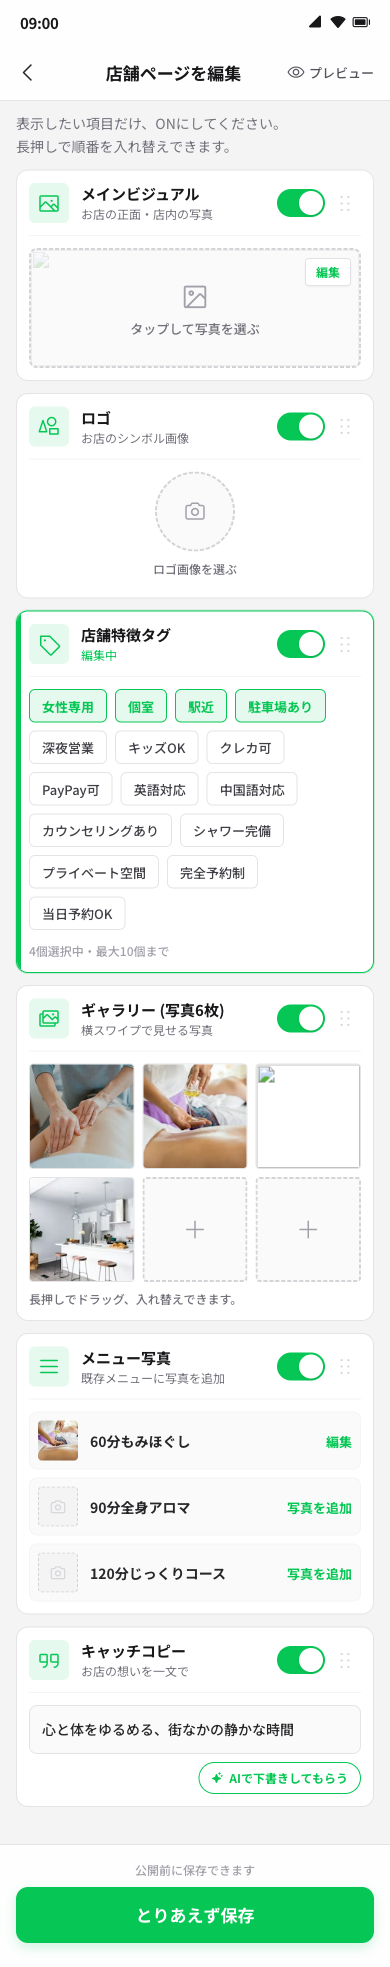
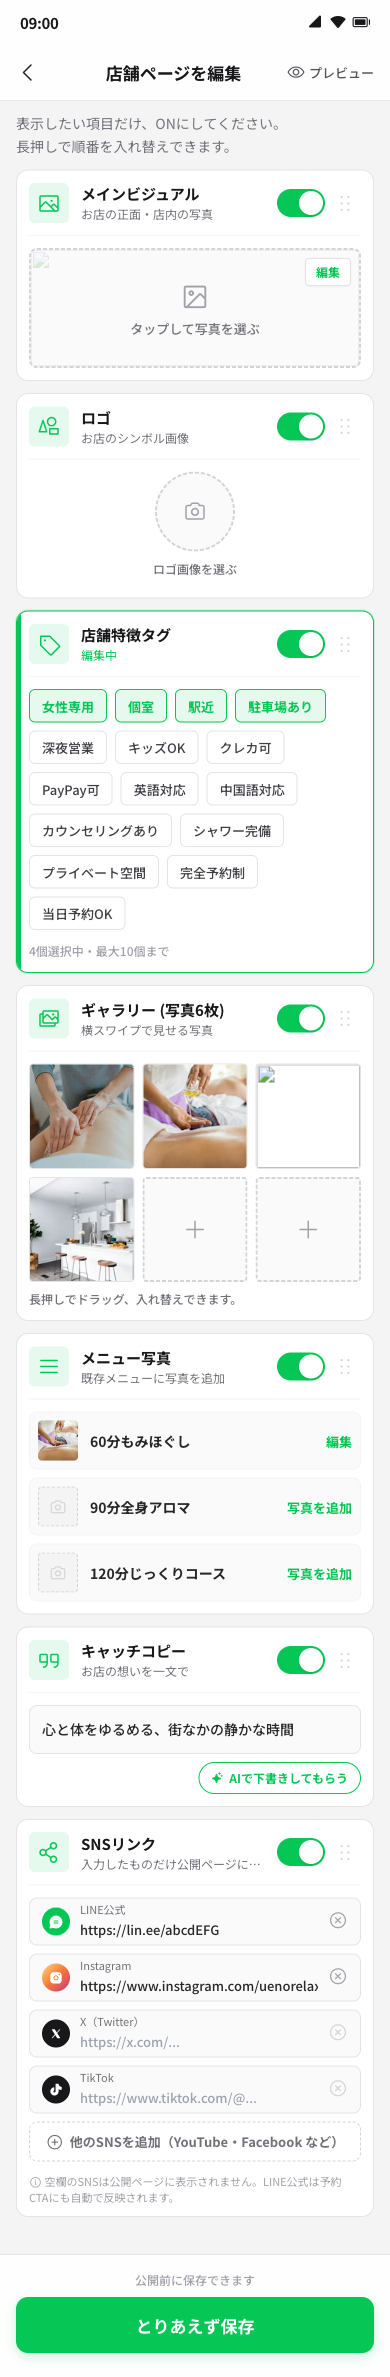
feat: 編集画面にBlock 7「SNSリンク」追加（LINE/Instagram/X/TikTok）
- admin/02_block-edit.html に SNS URL 入力欄を新規ブロックとして追加
- LINE公式・Instagram・X・TikTok（+他SNS追加ボタン）の4種＋拡張枠
- 各行：プラットフォームアイコン+URL入力+クリアボタン
- 全体ON/OFFトグル付き
- ヘルプテキストで「空欄は非表示／LINE公式は予約CTAにも反映」を明示
- 公開ページのヘッダーアイコンと CTA リンクにマッピングされる

diff --git a/shop-page/admin/02_block-edit.html b/shop-page/admin/02_block-edit.html
@@ -275,6 +275,98 @@
           </div>
         </article>
 
+        <!-- Block 7: SNS Links -->
+        <!--
+          公開ページに反映：
+            ・ヘッダー右上のInstagram / X / LINEアイコンの href
+            ・「Instagramで見る」CTAボタンの href
+            ・「LINEで予約する」CTAボタンの href（公式LINEと同じURLでOK）
+          入力例：
+            Instagram: https://www.instagram.com/your_shop/
+            X       : https://x.com/your_shop
+            LINE 公式: https://lin.ee/xxxxxxxx
+            TikTok   : https://www.tiktok.com/@your_shop
+          各行は空欄で「未登録」扱い、入力で「公開ページに表示」に切替（ボタン押下で自動）
+          ON/OFFトグルを切ると、公開ページからSNSアイコン群を一括非表示にできる
+        -->
+        <article class="shop-block bg-white border border-zinc-200 rounded-xl p-3">
+          <div class="flex items-center gap-3">
+            <div class="w-10 h-10 rounded-md bg-line/10 text-line flex items-center justify-center shrink-0">
+              <i class="ph ph-share-network text-2xl"></i>
+            </div>
+            <div class="flex-1 min-w-0">
+              <h2 class="font-bold text-[15px] text-zinc-900 truncate">SNSリンク</h2>
+              <p class="text-[12px] text-zinc-500 truncate">入力したものだけ公開ページに表示</p>
+            </div>
+            <div class="flex items-center gap-1 shrink-0">
+              <input type="checkbox" id="toggle-7" class="shop-block__toggle-input" checked>
+              <label for="toggle-7" class="shop-block__toggle"></label>
+              <button class="shop-block__handle w-8 h-10 flex items-center justify-center text-zinc-300"><i class="ph ph-dots-six-vertical text-2xl"></i></button>
+            </div>
+          </div>
+          <div class="mt-3 pt-3 border-t border-zinc-100 space-y-2">
+
+            <!-- LINE 公式 -->
+            <div class="shop-sns-row flex items-center gap-2.5 bg-zinc-50 border border-zinc-200 rounded-lg px-3 h-12">
+              <div class="w-7 h-7 rounded-full bg-line text-white flex items-center justify-center shrink-0">
+                <i class="ph-fill ph-chat-circle-text text-[16px]"></i>
+              </div>
+              <div class="flex-1 min-w-0">
+                <p class="text-[11px] text-zinc-500 leading-none mb-0.5">LINE公式</p>
+                <input type="url" placeholder="https://lin.ee/..." value="https://lin.ee/abcdEFG" class="w-full bg-transparent text-[13px] text-zinc-800 font-medium outline-none">
+              </div>
+              <button class="text-zinc-400 shrink-0" aria-label="クリア"><i class="ph ph-x-circle text-[20px]"></i></button>
+            </div>
+
+            <!-- Instagram -->
+            <div class="shop-sns-row flex items-center gap-2.5 bg-zinc-50 border border-zinc-200 rounded-lg px-3 h-12">
+              <div class="w-7 h-7 rounded-full bg-gradient-to-br from-[#FFDC80] via-[#F77737] to-[#C13584] text-white flex items-center justify-center shrink-0">
+                <i class="ph-fill ph-instagram-logo text-[14px]"></i>
+              </div>
+              <div class="flex-1 min-w-0">
+                <p class="text-[11px] text-zinc-500 leading-none mb-0.5">Instagram</p>
+                <input type="url" placeholder="https://www.instagram.com/..." value="https://www.instagram.com/uenorelax/" class="w-full bg-transparent text-[13px] text-zinc-800 font-medium outline-none">
+              </div>
+              <button class="text-zinc-400 shrink-0" aria-label="クリア"><i class="ph ph-x-circle text-[20px]"></i></button>
+            </div>
+
+            <!-- X (Twitter) -->
+            <div class="shop-sns-row flex items-center gap-2.5 bg-zinc-50 border border-zinc-200 rounded-lg px-3 h-12">
+              <div class="w-7 h-7 rounded-full bg-zinc-900 text-white flex items-center justify-center shrink-0">
+                <i class="ph-fill ph-x-logo text-[12px]"></i>
+              </div>
+              <div class="flex-1 min-w-0">
+                <p class="text-[11px] text-zinc-500 leading-none mb-0.5">X（Twitter）</p>
+                <input type="url" placeholder="https://x.com/..." value="" class="w-full bg-transparent text-[13px] text-zinc-400 font-medium outline-none">
+              </div>
+              <button class="text-zinc-300 shrink-0" aria-label="クリア"><i class="ph ph-x-circle text-[20px]"></i></button>
+            </div>
+
+            <!-- TikTok -->
+            <div class="shop-sns-row flex items-center gap-2.5 bg-zinc-50 border border-zinc-200 rounded-lg px-3 h-12">
+              <div class="w-7 h-7 rounded-full bg-zinc-900 text-white flex items-center justify-center shrink-0">
+                <i class="ph-fill ph-tiktok-logo text-[14px]"></i>
+              </div>
+              <div class="flex-1 min-w-0">
+                <p class="text-[11px] text-zinc-500 leading-none mb-0.5">TikTok</p>
+                <input type="url" placeholder="https://www.tiktok.com/@..." value="" class="w-full bg-transparent text-[13px] text-zinc-400 font-medium outline-none">
+              </div>
+              <button class="text-zinc-300 shrink-0" aria-label="クリア"><i class="ph ph-x-circle text-[20px]"></i></button>
+            </div>
+
+            <!-- Add more -->
+            <button class="w-full h-10 flex items-center justify-center gap-1.5 border border-dashed border-zinc-300 rounded-lg text-[13px] font-bold text-zinc-500">
+              <i class="ph ph-plus-circle text-[18px]"></i>
+              他のSNSを追加（YouTube・Facebook など）
+            </button>
+
+            <p class="text-[11px] text-zinc-400 leading-snug pt-1">
+              <i class="ph ph-info text-[13px] align-text-bottom"></i>
+              空欄のSNSは公開ページに表示されません。LINE公式は予約CTAにも自動で反映されます。
+            </p>
+          </div>
+        </article>
+
       </div>
     </div>
 
